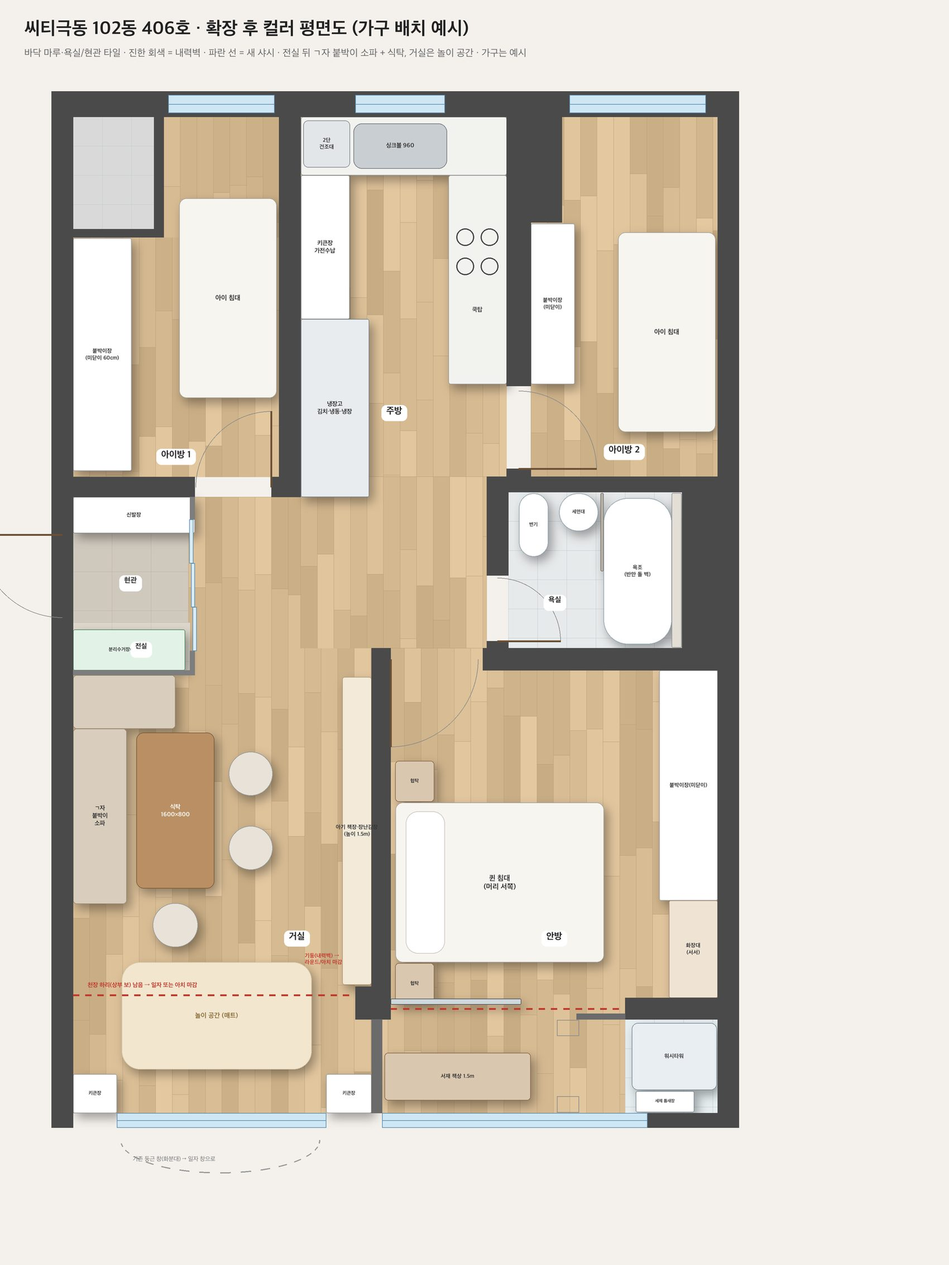
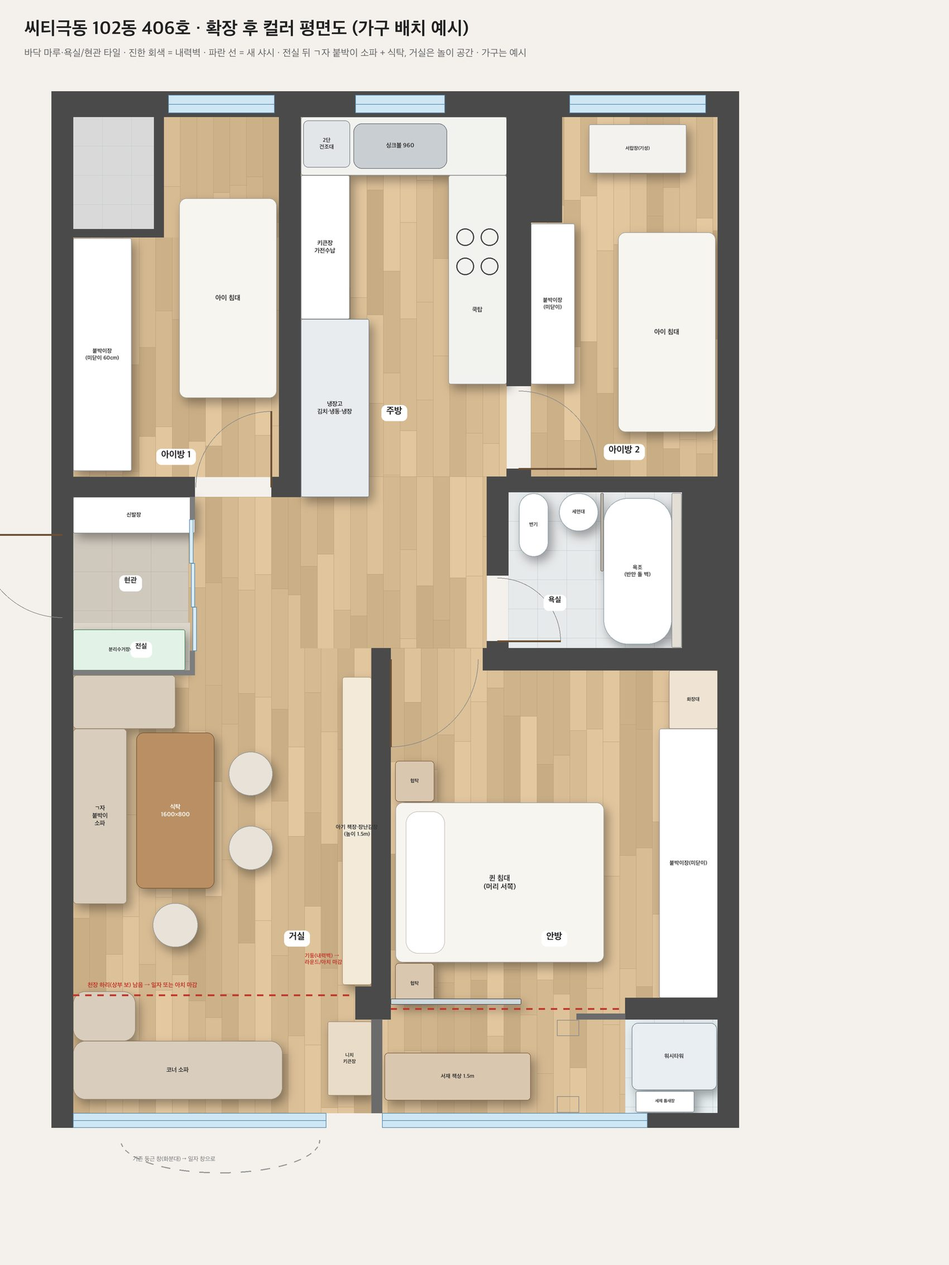
창가 코너 소파+니치 키큰장(책장 쪽), 상부 화이트·하부 우드 투톤, 화장대 방문 쪽 통일, 기성 서랍장 시안, 욕실 젠다이+천장까지 거울장, 오크 원슬라이딩 중문

diff --git a/js/concepts.js b/js/concepts.js
@@ -4,78 +4,78 @@
 export const CONCEPTS = [
   {
     id: '01', name: '화이트 오크 미니멀', tag: '밝은 오크 + 무광 화이트. 같은 평면 사례와 가장 가까운 기본안, 거실은 놀이 공간.',
-    T: { wall: '#efede8', part: '#ece9e3', dframe: '#2f2f2f', klow: '#f7f6f3', ctop: '#ebe6de', kup: '#f7f6f3', tall: '#f6f5f2', fridge: '#eceeef', base: '#f1eee8', seat: '#e3d8c8', back: '#d8cab6', table: '#c9a272', leg: '#a07a52', chair: '#c9a272', mat: '#f4ead6', acc: '#cfe0d4', duvet: '#efe8dc', head: '#d9ccb8', desk: '#d2b892', vanity: '#ffffff', curtain: '#f3efe8', floor: 'wood', floorc: [214, 188, 152], entry: [214, 208, 198], rug: '#ece4d6', khandle: 'groove', shelf: '#f6f5f2', kidFrame: '#d2b892', mCab: '#f4f3f0', panel: '#d2b892' },
-    V: { living: 'play', tall: 'cafe', kids: 'single', sep: 'glass', wd: [['wd', 5951, 8717, [4]], ['van', 8717, 9317]] },
+    T: { upper: '#f5f3ef', niche: '#d2b48c', blackout: '#b9b4ad', wall: '#efede8', part: '#ece9e3', dframe: '#2f2f2f', klow: '#d2b48c', kWood: true, ctop: '#ebe6de', kup: '#f5f3ef', tall: '#d2b48c', fridge: '#eceeef', base: '#f1eee8', seat: '#e3d8c8', back: '#d8cab6', table: '#c9a272', leg: '#a07a52', chair: '#c9a272', mat: '#f4ead6', acc: '#cfe0d4', duvet: '#efe8dc', head: '#d9ccb8', desk: '#d2b892', vanity: '#ffffff', curtain: '#f3efe8', floor: 'wood', floorc: [214, 188, 152], entry: [214, 208, 198], rug: '#ece4d6', khandle: 'groove', shelf: '#f6f5f2', kidFrame: '#d2b892', mCab: '#f4f3f0', panel: '#d2b892' },
+    V: { living: 'corner', tall: 'cafe', kids: 'single', sep: 'glass', cove: true, dresser: true, wd: [['van', 5951, 6551], ['wd', 6551, 9317, [0]]] },
     pal: [['#efede8', '벽 · 웜화이트'], ['#d6bc98', '바닥 · 라이트 오크 마루'], ['#f7f6f3', '주방·붙박이장 · 무광 화이트'], ['#e3d8c8', '붙박이 소파 · 오트밀 패브릭'], ['#c9a272', '식탁·의자 · 오크 원목'], ['#2f2f2f', '중문 · 블랙 슬림 프레임']],
-    inter: ['벽·천장·문·붙박이장을 같은 웜화이트로 맞춰 24평이 한 공간처럼 넓어 보이게', '손잡이 없는 홈(그루브) 도어, 밝은 스톤 상판', '거실은 매입 다운라이트, 식탁 위만 펜던트 1개'],
-    eff: ['거실 확장부: 놀이 매트 + 창가 낮은 바구니장 + 티피 텐트', '키큰장 가운데 허리 높이 열린 홈카페 칸(커피머신·토스터·전자레인지) + 위 간접등', '아이방: 싱글 침대 + 안전 가드, 창가 확장부는 놀이 러그'],
-    sep: '안방↔서재: 블랙 프레임 투명유리 3짝 슬라이딩 도어 · 붙박이장: 전부 미닫이, 화장대는 오른쪽(창 쪽) 끝, 폭 60cm·서서 쓰는 높이(상판 90cm)·아래 서랍, 옆 문 1짝 전신거울',
-    ref: 'ECI·디자인다룸 씨티극동 24평(화이트·3연동 중문)', views: ['living', 'kitchen']
+    inter: ['상부장·키큰장 윗부분은 화이트로 가볍게, 하부장·서랍은 라이트 오크로 무게감(투톤)', '손잡이 없는 홈(그루브) 도어, 밝은 스톤 상판', '거실은 매입 다운라이트, 식탁 위만 펜던트 1개'],
+    eff: ['거실 창가 코너(ㄱ자) 소파 + 소프트 오토만, 창 오른쪽 벽에 니치 키큰장(위 장·가운데 간접등 니치·아래 서랍)', '키큰장 가운데 허리 높이 열린 홈카페 칸(커피머신·토스터·전자레인지) + 위 간접등', '아이방: 싱글 침대 + 가드, 기성 서랍장(100×50×110)은 아이방2 창가·아이방1 붙박이장 앞쪽에'],
+    sep: '안방↔서재: 블랙 프레임 투명유리 3짝 슬라이딩 도어 · 붙박이장: 전부 미닫이, 화장대는 왼쪽(방문 쪽) 끝, 폭 60cm·서서 쓰는 높이(상판 90cm)·아래 서랍, 옆 문 1짝 전신거울',
+    ref: 'ECI·디자인다룸 씨티극동 24평(화이트·3연동 중문)', views: ['living', 'livingCab']
   },
   {
     id: '02', name: '웜 오크 호텔 스위트', tag: '미디엄 오크 무늬목 + 크림·그레이지 + 브라스. 천장 간접등과 우드 헤드월로 호텔 객실 느낌.',
-    T: { wall: '#ebe4d9', part: '#e2d8c9', dframe: '#b8955a', moru: true, klow: '#b98d62', kWood: true, ctop: '#efe9df', kup: '#ece5da', tall: '#b98d62', fridge: '#ece5da', base: '#d9cbb7', seat: '#ece4d6', back: '#e2d6c3', table: '#a9805a', leg: '#7d5a3c', chair: '#d8c6ae', chairStyle: 'fabric', mat: '#efe2cc', acc: '#b9a17f', duvet: '#f3eee6', head: '#cbb79c', desk: '#a9805a', vanity: '#b98d62', curtain: '#efe8dd', floor: 'wood', floorc: [196, 160, 120], plank: 220, entry: [200, 190, 176], rug: '#e6dccd', pendant: '#b8955a', pendantStyle: 'dome', khandle: 'brass', faucet: 'brass', shelf: '#d8c3a5', shelfWood: true, kidCab: '#e9e1d4', kidFrame: '#c9a77c', mCab: '#b98d62', mWood: true, mHandle: 'brass', panel: '#a9805a', vanityTop: '#e9e3d8', niche: '#b98d62', nicheWood: true, entryCab: '#b98d62', entryWood: true, entryDoor: '#5a4636', lampc: '#efe2c8', doorCol: '#efe8dd' },
-    V: { living: 'bench', tall: 'cafeGlass', kids: 'floor', headPanel: true, cove: true, sep: 'gansal', wd: [['pow', 5951, 6551], ['wd', 6551, 9317, [0]]] },
+    T: { upper: '#f3f0ea', niche: '#b98d62', blackout: '#b9b4ad', wall: '#ebe4d9', part: '#e2d8c9', dframe: '#b8955a', moru: true, klow: '#b98d62', kWood: true, ctop: '#efe9df', kup: '#f3f0ea', tall: '#b98d62', fridge: '#ece5da', base: '#d9cbb7', seat: '#ece4d6', back: '#e2d6c3', table: '#a9805a', leg: '#7d5a3c', chair: '#d8c6ae', chairStyle: 'fabric', mat: '#efe2cc', acc: '#b9a17f', duvet: '#f3eee6', head: '#cbb79c', desk: '#a9805a', vanity: '#b98d62', curtain: '#efe8dd', floor: 'wood', floorc: [196, 160, 120], plank: 220, entry: [200, 190, 176], rug: '#e6dccd', pendant: '#b8955a', pendantStyle: 'dome', khandle: 'brass', faucet: 'brass', shelf: '#d8c3a5', shelfWood: true, kidCab: '#e9e1d4', kidFrame: '#c9a77c', mCab: '#b98d62', mWood: true, mHandle: 'brass', panel: '#a9805a', vanityTop: '#e9e3d8', entryCab: '#b98d62', entryWood: true, entryDoor: '#5a4636', lampc: '#efe2c8', doorCol: '#efe8dd' },
+    V: { living: 'corner', tall: 'cafeGlass', kids: 'floor', headPanel: true, cove: true, jungmun: 'one', sep: 'gansal', wd: [['pow', 5951, 6551], ['wd', 6551, 9317, [0]]] },
     pal: [['#ebe4d9', '벽 · 그레이지'], ['#c4a078', '바닥 · 미디엄 오크(220폭)'], ['#b98d62', '주방 하부장·키큰장·붙박이장 · 오크 무늬목'], ['#ece4d6', '소파·의자 · 크림 부클레'], ['#b8955a', '손잡이·수전·조명 · 브라스'], ['#efe9df', '상판 · 웜화이트 스톤']],
     inter: ['주방 하부장·키큰장·신발장·안방 붙박이장을 같은 오크 무늬목으로 이어서 고급스럽게', '천장 가장자리 간접등 + 안방 침대 뒤 오크 헤드월(위 간접등, 양쪽 브라스 벽등)', '브라스 손잡이·수전·펜던트, 중문은 브라스 프레임 + 모루유리'],
-    eff: ['키큰장 가운데: 플루티드 유리 포켓도어 홈카페(쓸 땐 문을 옆으로 밀어 넣음) + 머그 선반', '거실 창 아래 길이 2.15m 수납 벤치(양쪽 키큰장 사이) + 로만쉐이드', '아이방: 낮은 하우스 바닥침대(떨어져도 안전) + 붙박이장'],
+    eff: ['키큰장 가운데: 플루티드 유리 포켓도어 홈카페(쓸 땐 문을 옆으로 밀어 넣음) + 머그 선반', '거실 창가 코너 소파 + 쉬어·그레이 암막 커튼, 현관은 오크 원슬라이딩 중문(샤틴 유리)', '아이방: 낮은 하우스 바닥침대(떨어져도 안전) + 붙박이장'],
     sep: '안방↔서재: 오크 간살 3짝 슬라이딩 도어(촘촘한 세로 간살 + 뒤 모루유리, 빛은 통하고 시선은 가림) · 파우더룸: 왼쪽(방문 쪽) 끝 화장대를 포켓도어로 숨김 → 닫으면 붙박이장처럼 보임, 옆 문 1짝 전신거울',
     ref: '국보 씨티극동 43평(통창·간접등), 디자인다룸(중문)', views: ['cafe', 'vanityN']
   },
   {
     id: '03', name: '월넛 호텔 라운지', tag: '짙은 월넛 무늬목 + 헤링본 마루 + 트래버틴. 거실은 낮은 라운지 소파로 좌식 생활.',
-    T: { wall: '#e6dfd6', part: '#ddd3c6', dframe: '#3a2e26', klow: '#6b4a34', kWood: true, ctop: '#e4dbcf', kup: '#e6dfd6', tall: '#6b4a34', fridge: '#e6dfd6', base: '#cdbfae', seat: '#d9cfc2', back: '#c8b9a6', table: '#d8c8b2', stone: true, leg: '#3a2e26', metalLeg: true, chair: '#6b4a34', chairStyle: 'wood', mat: '#e2d8cb', acc: '#8a6a52', duvet: '#efebe5', head: '#7a5a44', channel: true, desk: '#6b4a34', vanity: '#6b4a34', curtain: '#e7e0d6', floor: 'herring', floorc: [170, 128, 90], entry: [186, 176, 162], rug: '#d9cfc2', pendant: '#3a2e26', pendantStyle: 'cone', khandle: 'brass', faucet: 'brass', shelf: '#e9e3da', kidCab: '#efe9e0', kidFrame: '#b08a68', mCab: '#6b4a34', mWood: true, mHandle: 'brass', panel: '#6b4a34', vanityTop: '#e4dbcf', splash: '#e4dbcf', entryCab: '#6b4a34', entryWood: true, entryDoor: '#3a2e26', lampc: '#efe2c8', doorCol: '#e9e2d8' },
-    V: { living: 'lounge', tall: 'bar', kids: 'nook', headPanel: true, cove: true, sep: 'fluted', wd: [['van', 5951, 6551], ['wd', 6551, 9317, [0, 1]]] },
+    T: { upper: '#efebe5', niche: '#6b4a34', blackout: '#b9b4ad', wall: '#e6dfd6', part: '#ddd3c6', dframe: '#3a2e26', klow: '#6b4a34', kWood: true, ctop: '#e4dbcf', kup: '#efebe5', tall: '#6b4a34', fridge: '#e6dfd6', base: '#cdbfae', seat: '#d9cfc2', back: '#c8b9a6', table: '#d8c8b2', stone: true, leg: '#3a2e26', metalLeg: true, chair: '#6b4a34', chairStyle: 'wood', mat: '#e2d8cb', acc: '#8a6a52', duvet: '#efebe5', head: '#7a5a44', channel: true, desk: '#6b4a34', vanity: '#6b4a34', curtain: '#e7e0d6', floor: 'herring', floorc: [170, 128, 90], entry: [186, 176, 162], rug: '#d9cfc2', pendant: '#3a2e26', pendantStyle: 'cone', khandle: 'brass', faucet: 'brass', shelf: '#e9e3da', kidCab: '#efe9e0', kidFrame: '#b08a68', mCab: '#6b4a34', mWood: true, mHandle: 'brass', panel: '#6b4a34', vanityTop: '#e4dbcf', splash: '#e4dbcf', entryCab: '#6b4a34', entryWood: true, entryDoor: '#3a2e26', lampc: '#efe2c8', doorCol: '#e9e2d8' },
+    V: { living: 'corner', tall: 'bar', kids: 'nook', headPanel: true, cove: true, sep: 'fluted', wd: [['van', 5951, 6551], ['wd', 6551, 9317, [0, 1]]] },
     pal: [['#e6dfd6', '벽 · 웜 그레이지'], ['#aa805a', '바닥 · 오크 헤링본'], ['#6b4a34', '주방·붙박이장·헤드월 · 월넛 무늬목'], ['#d8c8b2', '식탁 · 트래버틴'], ['#d9cfc2', '라운지 소파 · 스톤 부클레'], ['#b8955a', '손잡이·수전 · 브라스']],
     inter: ['거실·주방 바닥을 헤링본 마루로 깔아 호텔 라운지 느낌', '주방 하부장·키큰장·신발장·안방 붙박이장·헤드월을 월넛 무늬목으로', '트래버틴 식탁·상판, 브라스 손잡이, 천장 간접등'],
-    eff: ['거실 확장부: 바닥에 가까운 라운지 소파(좌식, 아이가 올라가도 낮음) + 원형 낮은 테이블', '키큰장 가운데: 거울 뒷벽 + 유리 선반 바(커피머신·잔·병)', '아이방: 싱글 침대 + 창가 쿠션 벤치(아래 수납) 책 읽는 자리'],
+    eff: ['거실 창가 코너 소파 + 오른쪽 벽 니치 키큰장, 바닥은 헤링본', '키큰장 가운데: 거울 뒷벽 + 유리 선반 바(커피머신·잔·병)', '아이방: 싱글 침대 + 창가 쿠션 벤치(아래 수납) 책 읽는 자리'],
     sep: '안방↔서재: 브론즈 프레임 플루티드 유리 슬라이딩 · 붙박이장: 화장대 왼쪽(방문 쪽) 끝, 옆 문 2짝 전신거울',
     ref: '국보 한강극동·씨티극동 43평(간접등·마감), 벨류(라인조명)', views: ['living', 'cafe']
   },
   {
     id: '04', name: '재팬디 좌식 평상', tag: '애쉬·리넨·라탄. 거실 확장부 전체를 평상으로, 하리는 아치로.',
-    T: { wall: '#e9e1d3', part: '#ddd2c0', dframe: '#a88763', muntin: true, moru: true, klow: '#ddd2bf', ctop: '#efe9de', kup: '#ece5d9', tall: '#e4dccd', fridge: '#e4dccd', base: '#d9cdb8', seat: '#d8ccb6', back: '#bfae95', table: '#a88763', leg: '#7d6448', chair: '#c2a072', chairStyle: 'rattan', mat: '#e2d6c2', acc: '#a3b18a', duvet: '#ede6d8', head: '#bfa98a', desk: '#b8976d', vanity: '#ddd2bf', curtain: '#efe8db', floor: 'wood', floorc: [222, 204, 174], plank: 220, entry: [208, 198, 182], rug: '#e2d6c2', pendant: '#d9c3a0', lampc: '#efe2c8', khandle: 'groove', shelf: '#e4dccd', kidFrame: '#c9a77c', mCab: '#e4dccd', niche: '#c9b08a', nicheWood: true },
-    V: { living: 'daybed', tall: 'cafe', kids: 'floor', arch: true, sep: 'shoji', wd: [['wd', 5951, 8717, []], ['van', 8717, 9317]] },
+    T: { upper: '#f2ede4', niche: '#cdb592', blackout: '#b9b4ad', wall: '#e9e1d3', part: '#ddd2c0', dframe: '#a88763', muntin: true, moru: true, klow: '#cdb592', kWood: true, ctop: '#efe9de', kup: '#f2ede4', tall: '#cdb592', fridge: '#e4dccd', base: '#d9cdb8', seat: '#d8ccb6', back: '#bfae95', table: '#a88763', leg: '#7d6448', chair: '#c2a072', chairStyle: 'rattan', mat: '#e2d6c2', acc: '#a3b18a', duvet: '#ede6d8', head: '#bfa98a', desk: '#b8976d', vanity: '#ddd2bf', curtain: '#efe8db', floor: 'wood', floorc: [222, 204, 174], plank: 220, entry: [208, 198, 182], rug: '#e2d6c2', pendant: '#d9c3a0', lampc: '#efe2c8', khandle: 'groove', shelf: '#e4dccd', kidFrame: '#c9a77c', mCab: '#e4dccd' },
+    V: { living: 'daybed', tall: 'cafe', kids: 'floor', arch: true, cove: true, sep: 'shoji', wd: [['van', 5951, 6551], ['wd', 6551, 9317, []]] },
     pal: [['#e9e1d3', '벽 · 베이지 화이트'], ['#decbad', '바닥 · 애쉬 마루'], ['#d8ccb6', '평상 매트 · 리넨'], ['#c2a072', '의자 · 라탄'], ['#a88763', '목재 · 오크 브라운'], ['#a3b18a', '포인트 · 올리브']],
     inter: ['낮은 가구·라탄 의자·리넨으로 차분하게', '확장부 하리(상부 보)를 아치로 마감해 부드러운 선(벨류 사례)', '우드 프레임 + 모루유리 중문'],
-    eff: ['거실 창가 양쪽 키큰장 사이(약 2.15m × 1.17m)를 높이 35cm 평상으로: 아래 서랍 4개, 위는 낮잠·놀이·좌식 테이블', '키큰장 가운데 열린 홈카페 칸(원목 안쪽, 위 간접등)', '아이방: 하우스 바닥침대 + 놀이 러그'],
-    sep: '안방↔서재: 한지 미닫이 창호 2짝 · 붙박이장: 화장대 오른쪽 끝, 거울문 없이 단정하게',
+    eff: ['거실 창가(약 2.15m × 1.17m)를 높이 35cm 평상으로: 아래 서랍 4개, 위는 낮잠·놀이·좌식 테이블', '키큰장 가운데 열린 홈카페 칸(원목 안쪽, 위 간접등)', '아이방: 하우스 바닥침대 + 놀이 러그'],
+    sep: '안방↔서재: 한지 미닫이 창호 2짝 · 붙박이장: 화장대 왼쪽(방문 쪽) 끝, 거울문 없이 단정하게',
     ref: '벨류인테리어(하리 아치), 원앙마을 사례(발코니 단높임)', views: ['living', 'kids1']
   },
   {
     id: '05', name: '티크·라탄 리조트', tag: '티크 무늬목 + 라탄 캐인 도어 + 초록 식물. 발리 리조트 같은 따뜻한 좌식 거실.',
-    T: { wall: '#ede6da', part: '#e2d8c8', dframe: '#7a5a3c', muntin: true, klow: '#9a6b44', kWood: true, ctop: '#ece6db', kup: '#ece6db', tall: '#9a6b44', fridge: '#ece6db', base: '#cdb89a', seat: '#e9dfcf', back: '#d6c6ae', table: '#8a5f3c', leg: '#6a4a30', chair: '#c9a77c', chairStyle: 'rattan', mat: '#e6dccb', acc: '#7f9a6b', duvet: '#f0ebe1', head: '#9a6b44', desk: '#9a6b44', vanity: '#9a6b44', curtain: '#efe7da', floor: 'wood', floorc: [176, 132, 92], plank: 200, entry: [196, 184, 166], rug: '#e6dccb', pendant: '#c9a77c', pendantStyle: 'dome', khandle: 'brass', shelf: '#d9c3a2', shelfWood: true, kidCab: '#efe7da', kidFrame: '#9a6b44', mCab: '#9a6b44', mWood: true, mHandle: 'brass', panel: '#8a5f3c', niche: '#9a6b44', nicheWood: true, lampc: '#f0e2c6' },
-    V: { living: 'floor', tall: 'cane', kids: 'single', headPanel: true, sep: 'cane', wd: [['van', 5951, 6551], ['wd', 6551, 9317, [0]]] },
+    T: { upper: '#f1ebe1', niche: '#9a6b44', blackout: '#b9b4ad', wall: '#ede6da', part: '#e2d8c8', dframe: '#7a5a3c', muntin: true, klow: '#9a6b44', kWood: true, ctop: '#ece6db', kup: '#f1ebe1', tall: '#9a6b44', fridge: '#ece6db', base: '#cdb89a', seat: '#e9dfcf', back: '#d6c6ae', table: '#8a5f3c', leg: '#6a4a30', chair: '#c9a77c', chairStyle: 'rattan', mat: '#e6dccb', acc: '#7f9a6b', duvet: '#f0ebe1', head: '#9a6b44', desk: '#9a6b44', vanity: '#9a6b44', curtain: '#efe7da', floor: 'wood', floorc: [176, 132, 92], plank: 200, entry: [196, 184, 166], rug: '#e6dccb', pendant: '#c9a77c', pendantStyle: 'dome', khandle: 'brass', shelf: '#d9c3a2', shelfWood: true, kidCab: '#efe7da', kidFrame: '#9a6b44', mCab: '#9a6b44', mWood: true, mHandle: 'brass', panel: '#8a5f3c', lampc: '#f0e2c6' },
+    V: { living: 'floor', tall: 'cane', kids: 'single', headPanel: true, cove: true, dresser: true, sep: 'cane', wd: [['van', 5951, 6551], ['wd', 6551, 9317, [0]]] },
     pal: [['#ede6da', '벽 · 샌드 화이트'], ['#b0845c', '바닥 · 티크톤 마루'], ['#9a6b44', '주방·키큰장·붙박이장 · 티크 무늬목'], ['#c9a77c', '캐인 도어·의자 · 라탄'], ['#7f9a6b', '쿠션·식물 · 올리브 그린'], ['#e9dfcf', '패브릭 · 내추럴 리넨']],
     inter: ['키큰장 윗장 문을 라탄 캐인(그물)으로: 통풍 되고 가볍게', '티크 무늬목 + 라탄 의자·라운지체어 + 큰 화분', '안방은 티크 헤드월 + 브라스 벽등'],
-    eff: ['거실 확장부: 좌식 방석(푸프) + 라탄 낮은 테이블 + 라탄 라운지체어', '키큰장 가운데 홈카페 + 라탄 바구니 칸', '아이방: 싱글 침대 + 가드, 창가 러그·티피'],
+    eff: ['거실 확장부: 좌식 방석(푸프) + 라탄 낮은 테이블 + 라탄 라운지체어', '키큰장 가운데 홈카페 + 라탄 바구니 칸', '아이방: 싱글 침대 + 가드, 기성 서랍장은 아이방2 창가·아이방1 붙박이장 앞쪽에'],
     sep: '안방↔서재: 라탄 캐인 3짝 슬라이딩 · 붙박이장: 화장대 왼쪽 끝 + 옆 전신거울 1짝',
     ref: '원앙마을 사례(발코니), 오늘의집 리조트 스타일', views: ['living', 'vanityN']
   },
   {
     id: '06', name: '스모크 오크 + 트래버틴', tag: '짙은 스모크 오크 + 따뜻한 트래버틴 + 웜화이트. 차분하고 묵직한 고급감.',
-    T: { wall: '#efebe5', part: '#e4ddd3', dframe: '#3b3631', klow: '#5e5246', kWood: true, ctop: '#e2d5c3', kup: '#efebe5', tall: '#5e5246', fridge: '#efebe5', base: '#d8cdbf', seat: '#e3dbd0', back: '#d3c7b8', table: '#dccbb3', stone: true, leg: '#3b3631', metalLeg: true, chair: '#5e5246', chairStyle: 'wood', mat: '#e9e1d6', acc: '#a58e74', duvet: '#f1ede7', head: '#8c7a68', channel: true, desk: '#5e5246', vanity: '#5e5246', curtain: '#ece6dd', floor: 'wood', floorc: [206, 182, 150], plank: 240, entry: [190, 180, 168], rug: '#e3dbd0', pendant: '#e2d5c3', pendantStyle: 'dome', khandle: 'bar', splash: '#e2d5c3', shelf: '#efebe5', kidCab: '#f1ede7', kidFrame: '#b39b80', mCab: '#5e5246', mWood: true, mHandle: 'bar', panel: '#5e5246', vanityTop: '#e2d5c3', niche: '#e2d5c3', entryCab: '#5e5246', entryWood: true, entryDoor: '#3b3631', lampc: '#efe2c8' },
-    V: { living: 'play', tall: 'cafe', kids: 'nook', headPanel: true, cove: true, sep: 'gansal', wd: [['wd', 5951, 8717, [3, 4]], ['pow', 8717, 9317]] },
+    T: { upper: '#f1ede7', niche: '#5e5246', blackout: '#b9b4ad', wall: '#efebe5', part: '#e4ddd3', dframe: '#3b3631', klow: '#5e5246', kWood: true, ctop: '#e2d5c3', kup: '#f1ede7', tall: '#5e5246', fridge: '#efebe5', base: '#d8cdbf', seat: '#e3dbd0', back: '#d3c7b8', table: '#dccbb3', stone: true, leg: '#3b3631', metalLeg: true, chair: '#5e5246', chairStyle: 'wood', mat: '#e9e1d6', acc: '#a58e74', duvet: '#f1ede7', head: '#8c7a68', channel: true, desk: '#5e5246', vanity: '#5e5246', curtain: '#ece6dd', floor: 'wood', floorc: [206, 182, 150], plank: 240, entry: [190, 180, 168], rug: '#e3dbd0', pendant: '#e2d5c3', pendantStyle: 'dome', khandle: 'bar', splash: '#e2d5c3', shelf: '#efebe5', kidCab: '#f1ede7', kidFrame: '#b39b80', mCab: '#5e5246', mWood: true, mHandle: 'bar', panel: '#5e5246', vanityTop: '#e2d5c3', niche: '#e2d5c3', entryCab: '#5e5246', entryWood: true, entryDoor: '#3b3631', lampc: '#efe2c8' },
+    V: { living: 'corner', tall: 'cafe', kids: 'nook', headPanel: true, cove: true, sep: 'gansal', wd: [['pow', 5951, 6551], ['wd', 6551, 9317, [0, 1]]] },
     pal: [['#efebe5', '벽 · 웜화이트'], ['#ceb696', '바닥 · 내추럴 오크(240폭)'], ['#5e5246', '주방·키큰장·붙박이장 · 스모크 오크'], ['#e2d5c3', '상판·식탁·벽타일 · 트래버틴'], ['#e3dbd0', '소파 · 스톤 패브릭'], ['#3b3631', '중문·조명 · 다크 브론즈']],
     inter: ['짙은 스모크 오크 수납장 + 밝은 바닥·벽으로 대비', '주방 상판·벽타일·식탁을 트래버틴 톤으로 통일', '천장 간접등, 안방 스모크 오크 헤드월'],
-    eff: ['키큰장 가운데 홈카페 칸: 트래버틴 안쪽 + 위 간접등', '거실 확장부 놀이 매트 + 바구니장 (책장은 오른쪽 벽 전체)', '아이방: 싱글 침대 + 창가 쿠션 벤치'],
-    sep: '안방↔서재: 스모크 오크 간살 슬라이딩(세로 간살 + 모루유리) · 파우더룸: 오른쪽(창 쪽) 끝 화장대를 포켓도어로 숨김, 옆 문 2짝 전신거울',
-    ref: '국보 씨티극동 43평, 디자인다룸', views: ['kitchen', 'vanityS']
+    eff: ['키큰장 가운데 홈카페 칸: 트래버틴 안쪽 + 위 간접등', '거실 창가 코너 소파 + 오토만, 오른쪽 벽 니치 키큰장(간접등·콘센트)', '아이방: 싱글 침대 + 창가 쿠션 벤치'],
+    sep: '안방↔서재: 스모크 오크 간살 슬라이딩(세로 간살 + 모루유리) · 파우더룸: 왼쪽(방문 쪽) 끝 화장대를 포켓도어로 숨김, 옆 문 2짝 전신거울',
+    ref: '국보 씨티극동 43평, 디자인다룸', views: ['kitchen', 'vanityN']
   },
   {
     id: '07', name: '창가 다이닝 + 놀이방', tag: '식탁을 거실 창가(확장부)로 옮기고, 원래 식탁·소파 자리는 통째로 아이 놀이방. 소파 없음.',
-    T: { wall: '#eeeae3', part: '#e6dfd4', dframe: '#3b3631', klow: '#c9a77c', kWood: true, ctop: '#eee8de', kup: '#efebe5', tall: '#c9a77c', fridge: '#efebe5', base: '#e6dccd', seat: '#e9e1d4', back: '#ddd2c2', table: '#b48a60', leg: '#7d5a3c', chair: '#e6dccd', chairStyle: 'fabric', mat: '#e7efe6', acc: '#a9c2a6', duvet: '#f2eee8', head: '#d6c6ae', desk: '#c9a77c', vanity: '#c9a77c', curtain: '#f0ebe2', floor: 'wood', floorc: [208, 180, 142], plank: 220, entry: [204, 194, 180], rug: '#e6ddcf', pendant: '#e2d5c3', pendantStyle: 'dome', khandle: 'brass', faucet: 'brass', shelf: '#f3eee6', kidCab: '#f1ece4', kidFrame: '#c9a77c', mCab: '#c9a77c', mWood: true, panel: '#b48a60', niche: '#c9a77c', nicheWood: true, entryCab: '#c9a77c', entryWood: true, lampc: '#efe2c8' },
-    V: { living: 'diningWin', tall: 'cafe', kids: 'single', sep: 'glass', headPanel: true, cove: true, wd: [['wd', 5951, 8717, [4]], ['van', 8717, 9317]] },
+    T: { upper: '#f4f0e9', niche: '#c9a77c', blackout: '#b9b4ad', wall: '#eeeae3', part: '#e6dfd4', dframe: '#3b3631', klow: '#c9a77c', kWood: true, ctop: '#eee8de', kup: '#f4f0e9', tall: '#c9a77c', fridge: '#efebe5', base: '#e6dccd', seat: '#e9e1d4', back: '#ddd2c2', table: '#b48a60', leg: '#7d5a3c', chair: '#e6dccd', chairStyle: 'fabric', mat: '#e7efe6', acc: '#a9c2a6', duvet: '#f2eee8', head: '#d6c6ae', desk: '#c9a77c', vanity: '#c9a77c', curtain: '#f0ebe2', floor: 'wood', floorc: [208, 180, 142], plank: 220, entry: [204, 194, 180], rug: '#e6ddcf', pendant: '#e2d5c3', pendantStyle: 'dome', khandle: 'brass', faucet: 'brass', shelf: '#f3eee6', kidCab: '#f1ece4', kidFrame: '#c9a77c', mCab: '#c9a77c', mWood: true, panel: '#b48a60', entryCab: '#c9a77c', entryWood: true, lampc: '#efe2c8' },
+    V: { living: 'diningWin', tall: 'cafe', kids: 'single', sep: 'glass', headPanel: true, cove: true, jungmun: 'one', dresser: true, wd: [['van', 5951, 6551], ['wd', 6551, 9317, [0]]] },
     pal: [['#eeeae3', '벽 · 웜 화이트'], ['#d0b48e', '바닥 · 내추럴 오크'], ['#c9a77c', '주방·붙박이장 · 라이트 오크 무늬목'], ['#b48a60', '식탁 · 오크'], ['#a9c2a6', '놀이방 포인트 · 세이지'], ['#e7efe6', '놀이 매트 · 민트 그레이']],
     inter: ['식탁 1,600×800을 창과 나란히, 창가에서 바깥을 보며 식사', '원래 식탁 자리는 놀이방: 큰 매트 + 낮은 장난감장 + 티피 + 미끄럼틀 + 아이 테이블', '책장은 오른쪽 벽 전체 그대로'],
     eff: ['식탁 양쪽 의자 2+2 (끝에 보조의자 2개 더 가능), 창 쪽 의자 뒤 약 33cm', '소파가 없어 거실 전체가 아이 차지, 현관에서 들어오자마자 놀이방', '아쉬운 점: 주방에서 식탁까지 약 6m로 멀어짐'],
-    sep: '안방↔서재: 투명유리 3짝 슬라이딩 · 붙박이장: 화장대 오른쪽 끝 + 전신거울 1짝',
+    sep: '안방↔서재: 투명유리 3짝 슬라이딩 · 붙박이장: 화장대 왼쪽(방문 쪽) 끝 + 전신거울 1짝',
     ref: 'ECI·디자인다룸(일자 통창 → 창가 활용)', views: ['living', 'play']
   },
   {
     id: '08', name: '창가 소파 다이닝', tag: '창가에 긴 붙박이 소파 → 식탁 → 반대편 의자 3. 원래 식탁 자리는 놀이방.',
-    T: { wall: '#ebe4d9', part: '#e2d8c9', dframe: '#b8955a', moru: true, klow: '#8a6a52', kWood: true, ctop: '#ece6dc', kup: '#ebe4d9', tall: '#8a6a52', fridge: '#ebe4d9', base: '#d6c8b4', seat: '#e6dccc', back: '#d8cab4', table: '#a9805a', leg: '#5c4330', chair: '#8a6a52', chairStyle: 'wood', mat: '#efe4d2', acc: '#c49a6c', duvet: '#f2ede5', head: '#b9a387', channel: true, desk: '#8a6a52', vanity: '#8a6a52', curtain: '#efe8dd', floor: 'herring', floorc: [190, 150, 110], entry: [196, 184, 168], rug: '#e6dccc', pendant: '#b8955a', pendantStyle: 'cone', khandle: 'brass', faucet: 'brass', shelf: '#efe9df', kidCab: '#efe8de', kidFrame: '#b08a68', mCab: '#8a6a52', mWood: true, panel: '#8a6a52', niche: '#8a6a52', nicheWood: true, entryCab: '#8a6a52', entryWood: true, lampc: '#efe2c8' },
-    V: { living: 'diningWinSofa', tall: 'cafeGlass', kids: 'nook', sep: 'wood', headPanel: true, cove: true, wd: [['pow', 5951, 6551], ['wd', 6551, 9317, [0]]] },
+    T: { upper: '#f2ede6', niche: '#8a6a52', blackout: '#b9b4ad', wall: '#ebe4d9', part: '#e2d8c9', dframe: '#b8955a', moru: true, klow: '#8a6a52', kWood: true, ctop: '#ece6dc', kup: '#f2ede6', tall: '#8a6a52', fridge: '#ebe4d9', base: '#d6c8b4', seat: '#e6dccc', back: '#d8cab4', table: '#a9805a', leg: '#5c4330', chair: '#8a6a52', chairStyle: 'wood', mat: '#efe4d2', acc: '#c49a6c', duvet: '#f2ede5', head: '#b9a387', channel: true, desk: '#8a6a52', vanity: '#8a6a52', curtain: '#efe8dd', floor: 'herring', floorc: [190, 150, 110], entry: [196, 184, 168], rug: '#e6dccc', pendant: '#b8955a', pendantStyle: 'cone', khandle: 'brass', faucet: 'brass', shelf: '#efe9df', kidCab: '#efe8de', kidFrame: '#b08a68', mCab: '#8a6a52', mWood: true, panel: '#8a6a52', entryCab: '#8a6a52', entryWood: true, lampc: '#efe2c8' },
+    V: { living: 'diningWinSofa', tall: 'cafeGlass', kids: 'nook', sep: 'wood', headPanel: true, cove: true, jungmun: 'one', wd: [['pow', 5951, 6551], ['wd', 6551, 9317, [0]]] },
     pal: [['#ebe4d9', '벽 · 그레이지'], ['#be966e', '바닥 · 오크 헤링본'], ['#8a6a52', '주방·붙박이장 · 웜 월넛'], ['#e6dccc', '창가 소파 · 크림 부클레'], ['#a9805a', '식탁 · 오크'], ['#b8955a', '조명·손잡이 · 브라스']],
     inter: ['창가 붙박이 소파(길이 2.15m, 좌판 아래 서랍) = 소파 겸 식탁 의자', '식탁 위 브라스 펜던트, 로만쉐이드로 창가 분위기', '원래 식탁 자리는 놀이방'],
     eff: ['창 쪽은 소파, 반대편 의자 3개 → 6~7명', '낮에는 창가 소파에서 쉬고, 식사 때 그대로 식탁', '아쉬운 점: 주방에서 식탁까지 약 6m, 소파 안쪽 자리는 드나들기 불편'],
@@ -96,13 +96,14 @@ export const VIEWS = {
   recycle: ['분리수거장', [0.75, 1.55, 4.65], [0.55, 1.05, 5.9]],
   cafe: ['키큰장', [3.75, 1.45, 2.75], [2.45, 1.15, 1.5]],
   master: ['안방', [3.75, 1.6, 6.2], [6.0, 0.8, 8.3]],
-  vanityN: ['화장대(왼쪽 끝)', [5.2, 1.6, 6.55], [6.6, 1.25, 6.2]],
+  vanityN: ['화장대(방문 쪽)', [5.2, 1.6, 6.55], [6.6, 1.25, 6.2]],
   vanityS: ['화장대(오른쪽 끝)', [5.2, 1.6, 8.75], [6.6, 1.25, 9.05]],
   kids1: ['아이방 1', [1.75, 1.55, 4.55], [0.8, 0.9, 1.3]],
   kids2: ['아이방 2', [5.0, 1.55, 3.6], [6.0, 0.85, 1.0]],
   bath: ['욕실', [4.40, 1.65, 5.5], [5.9, 0.95, 4.45]],
+  livingCab: ['거실 키큰장(니치)', [1.0, 1.55, 9.2], [2.95, 1.05, 9.95]],
   play: ['놀이방(옛 식탁 자리)', [2.55, 1.55, 8.6], [0.6, 0.6, 6.4]],
   study: ['서재(안방 확장)', [4.95, 1.55, 8.75], [3.9, 0.9, 10.2]],
   laundry: ['세탁 부스', [4.2, 1.5, 9.95], [6.3, 1.0, 10.0]],
 };
-export const VIEW_ORDER = ['overview', 'overview2', 'living', 'dining', 'play', 'entry', 'recycle', 'kitchen', 'sink', 'cafe', 'master', 'vanityN', 'vanityS', 'study', 'kids1', 'kids2', 'bath', 'laundry'];
+export const VIEW_ORDER = ['overview', 'overview2', 'living', 'livingCab', 'dining', 'play', 'entry', 'recycle', 'kitchen', 'sink', 'cafe', 'master', 'vanityN', 'study', 'kids1', 'kids2', 'bath', 'laundry'];

diff --git a/index.html b/index.html
@@ -59,12 +59,13 @@
     <h2>정해진 방향</h2>
     <ul>
       <li><b>확장</b> 발코니 1·2·3 전부 확장, 샷시 전체 교체, 거실 둥근 창 → 일자 통창(양끝은 벽 + 키큰장, 거실 창 약 2.15m). 거실·안방 사이 확장부에 새 벽.</li>
+      <li><b>투톤 원칙</b> 상부장·장 윗부분은 화이트로 가볍게, 하부장·서랍·니치는 우드로 무게감(주방·키큰장·신발장·분리수거장·거실장 공통).</li>
       <li><b>주방</b> ㄱ자 + 오른쪽 연장. 싱크볼 960, 싱크 왼쪽 2단 건조대 위 상부장은 키큰장 폭(50cm)으로 벽까지 이어서 문이 창 쪽으로 열림. 오른쪽 전부 상부장(후드 일체). 키큰장 가운데는 모든 컨셉에서 열린 칸(홈카페). 주방 창은 싱크 위 약 0.92m.</li>
-      <li><b>거실·식탁</b> 기본: 전실 벽 뒤 ㄱ자 붙박이 소파 + 식탁 1,600×800. 대안(07·08): 식탁을 창가 확장부로 옮기고 옛 식탁 자리는 놀이방(07은 소파 없음, 08은 창가 긴 소파 + 반대편 의자 3). 오른쪽 벽은 끝까지 아기 책장(1.5m).</li>
-      <li><b>안방</b> 침대 머리 서쪽 벽, 동쪽 벽 전체 미닫이 붙박이장. 화장대는 폭 60cm, 서서 쓰는 높이(상판 90cm) + 아래 서랍, 위치는 왼쪽 끝 또는 오른쪽 끝(컨셉별), 문 닫으면 장처럼 보이는 파우더룸형(02·06·08)도 있음. 일부 장문은 전신거울. 확장부는 서재(1.5m 책상), 안방과는 3짝 슬라이딩 도어로 분리(유리·플루티드·간살·한지·라탄 등).</li>
-      <li><b>아이방</b> 아이방1은 붙박이장(깊이 60cm, 미닫이)을 서쪽 벽으로, 침대는 동쪽 → 창을 안 가림. 아이방2도 미닫이(폭이 좁아 깊이 45cm). 책상 없음, 이층 침대 없음.</li>
-      <li><b>욕실</b> 변기(문 쪽 구석) ↔ 세면대(욕조 옆). 세면대 위에서 변기 위까지 긴 거울장(약 0.9m, 거울문 3짝, 아래 간접등). 욕조 700×1,500 절반만 30mm 돌 벽, 욕조 뒤 덧벽 니치 2줄, 욕조 위 방습 다운라이트 2개 따로.</li>
-      <li><b>현관</b> 전실 + 3연동 중문 + 신발장 + 분리수거장(세로통 3 + 가운데 키 칸 + 상부장).</li>
+      <li><b>거실·식탁</b> 기본: 전실 벽 뒤 ㄱ자 붙박이 소파 + 식탁 1,600×800. 창가는 코너(ㄱ자) 소파 + 소프트 오토만, 쉬어+그레이 암막 커튼. 창 오른쪽(책장 쪽) 벽에 니치 키큰장: 위 장(화이트)·가운데 간접등 니치+콘센트·아래 서랍(우드). 대안(07·08): 식탁을 창가 확장부로 옮기고 옛 식탁 자리는 놀이방(07은 소파 없음, 08은 창가 긴 소파 + 반대편 의자 3). 오른쪽 벽은 끝까지 아기 책장(1.5m).</li>
+      <li><b>안방</b> 침대 머리 서쪽 벽, 동쪽 벽 전체 미닫이 붙박이장. 화장대는 폭 60cm, 서서 쓰는 높이(상판 90cm) + 아래 서랍, 모든 안에서 방문 쪽(왼쪽) 끝, 문 닫으면 장처럼 보이는 파우더룸형(02·06·08)도 있음. 일부 장문은 전신거울. 확장부는 서재(1.5m 책상), 안방과는 3짝 슬라이딩 도어로 분리(유리·플루티드·간살·한지·라탄 등).</li>
+      <li><b>아이방</b> 아이방1은 붙박이장(깊이 60cm, 미닫이)을 서쪽 벽으로, 침대는 동쪽 → 창을 안 가림. 아이방2도 미닫이(폭이 좁아 깊이 45cm). 책상 없음, 이층 침대 없음. 기성 서랍장(100×50×110): 아이방2는 창가에 들어감(서랍 앞 약 52cm, 창 아래 20cm 가림), 아이방1 창가는 침대 머리와 18cm라 서랍을 못 열어서 붙박이장 앞쪽 1m 대신 넣는 안(01·05·07).</li>
+      <li><b>욕실</b> 변기(문 쪽 구석) ↔ 세면대(욕조 옆). 세면대·변기 위에 대리석 다이(젠다이, 깊이 12cm, 높이 약 1.2m)를 일자로 길게, 그 위로 천장까지 거울장(아래 1.45m부터 띄움, 간접등), 수전은 벽 수전. 욕조 700×1,500 절반만 30mm 돌 벽, 욕조 뒤 덧벽 니치 2줄, 욕조 위 방습 다운라이트 2개 따로.</li>
+      <li><b>현관</b> 전실 + 중문(3연동 또는 오크 프레임 원슬라이딩·샤틴 유리: 02·07·08) + 신발장(아래 우드·가운데 오크 니치·위 화이트) + 분리수거장(세로통 3 + 가운데 키 칸 + 상부장).</li>
       <li><b>세탁</b> 창고 자리 세탁부스: 정면 전체를 4짝 폴딩도어로 → 열면 앞이 다 트여 세탁기 문이 끝까지 열림. 세탁기 옆 빼서 쓰는 세제 틈새장(폭 21cm), 위 선반. 방음은 흡음 패널 폴딩도어 + 고무 가스켓.</li>
       <li><b>난방</b> 개별난방(LNG). 확장부 바닥 난방 배관 연장 필요.</li>
     </ul>
@@ -106,6 +107,6 @@ document.getElementById('cases').innerHTML=CASES.map(([img,t,u,b])=>`<article><h
 document.querySelectorAll('#tabs button').forEach(b=>b.onclick=()=>{document.querySelectorAll('#tabs button').forEach(x=>x.classList.toggle('on',x===b));document.querySelectorAll('.tab').forEach(s=>s.classList.toggle('on',s.id===b.dataset.t));window.dispatchEvent(new Event('resize'));});
 const lb=document.getElementById('lightbox');document.addEventListener('click',e=>{if(e.target.matches('.cards img,.cases img')){lb.querySelector('img').src=e.target.src;lb.classList.add('on');}else if(e.target.closest('#lightbox'))lb.classList.remove('on');});
 </script>
-<script type="module" src="js/app.js?v=8"></script>
+<script type="module" src="js/app.js?v=10"></script>
 </body>
 </html>

diff --git a/js/app.js b/js/app.js
@@ -8,8 +8,8 @@ import { RenderPass } from 'three/addons/postprocessing/RenderPass.js';
 import { GTAOPass } from 'three/addons/postprocessing/GTAOPass.js';
 import { OutputPass } from 'three/addons/postprocessing/OutputPass.js';
 RectAreaLightUniformsLib.init();
-import { buildHouse, LABELS, CEIL_ONLY, OUTSIDE, audit } from './house.js?v=8';
-import { CONCEPTS, VIEWS, VIEW_ORDER } from './concepts.js?v=8';
+import { buildHouse, LABELS, CEIL_ONLY, OUTSIDE, audit } from './house.js?v=10';
+import { CONCEPTS, VIEWS, VIEW_ORDER } from './concepts.js?v=10';
 
 const wrap = document.getElementById('viewer');
 const renderer = new THREE.WebGLRenderer({ antialias: true, preserveDrawingBuffer: true });
